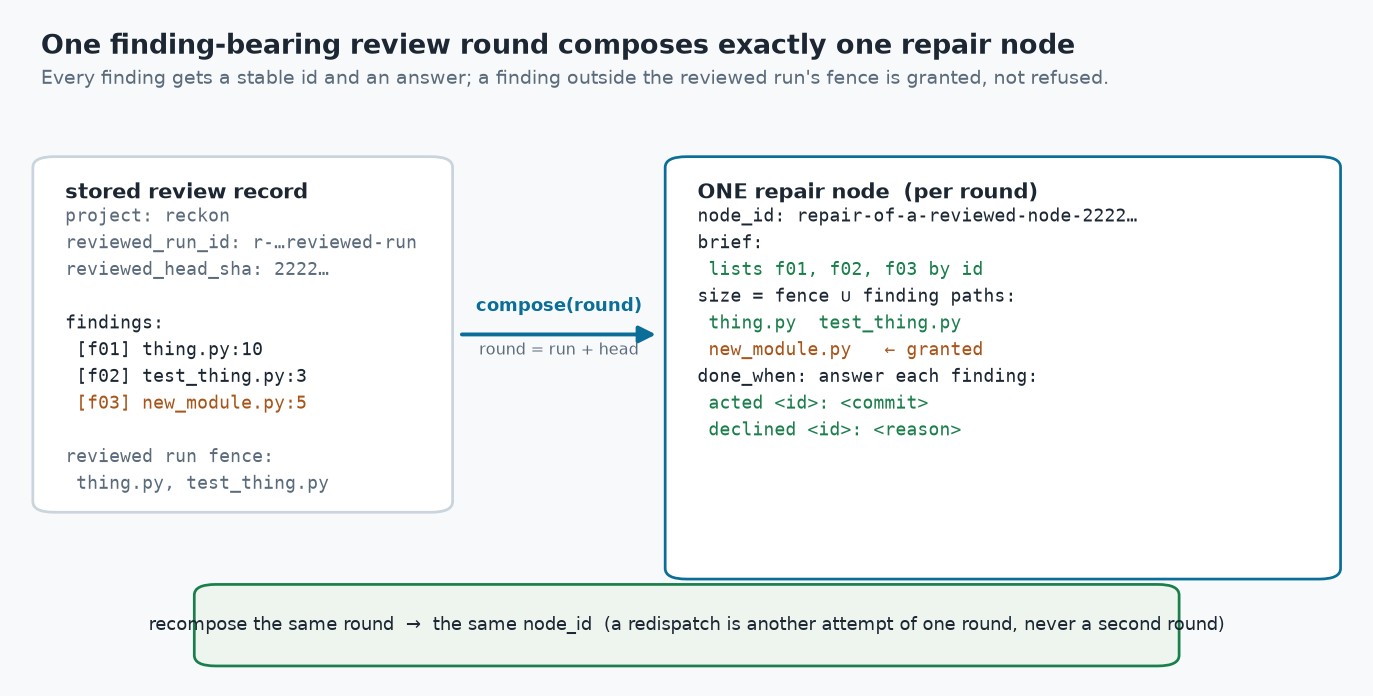
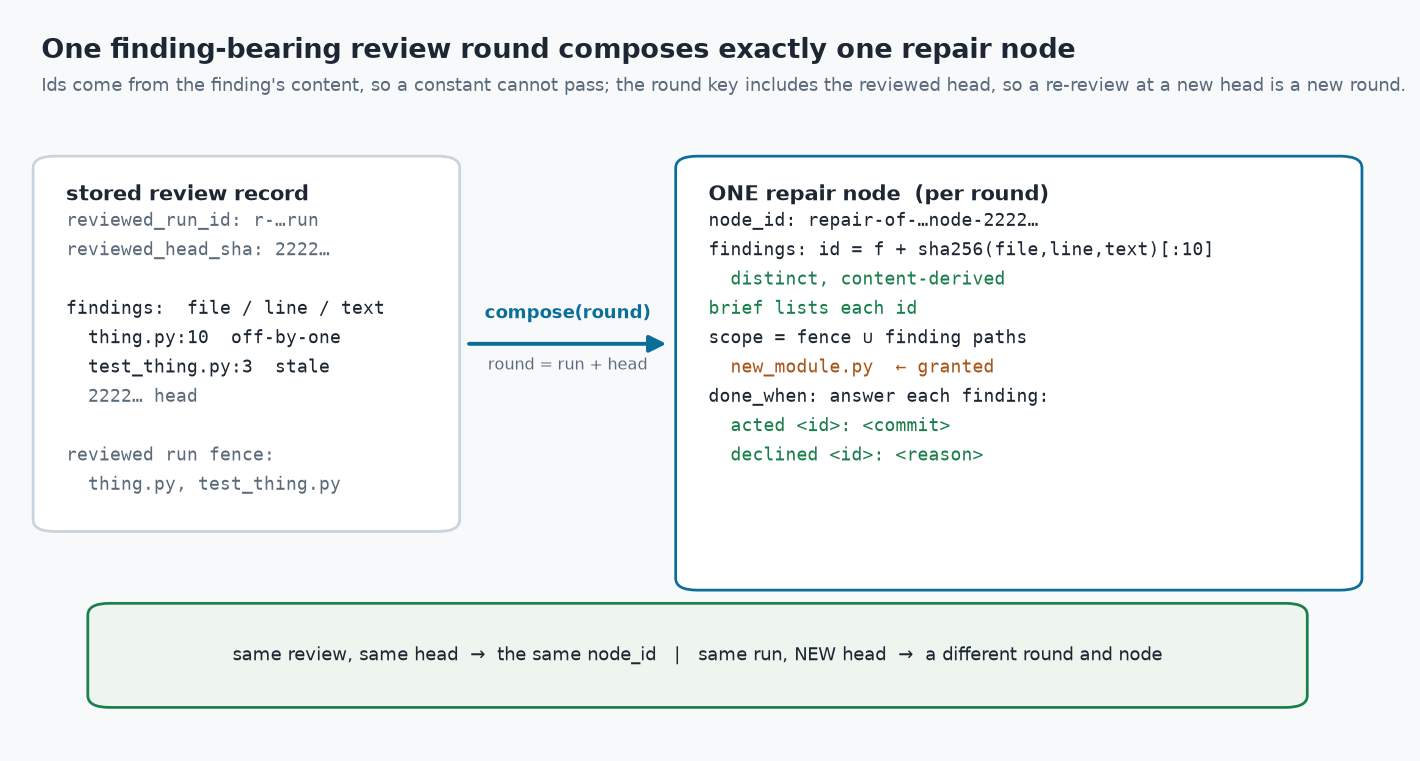
docs(evidence): record the repair round's content-derived ids and head arm
The repair round changed how a finding is identified and how a round is
keyed, so the landed record no longer matched the code beside the
figure. The finding id is now derived from the finding's own file, line
and text rather than its position in the frozen record, and the response
words are imported from plan review's shared vocabulary rather than
declared as a private copy.

Update the fragment's description of the id rule, the shared vocabulary
and the round-identity discriminator; add the repair-round head arm to
the gate table; and record the second negative control, in which a
constant finding_id reddens the three id-bearing cases in a scratch copy
of the tree. Regenerate the figure to show the content-derived ids and
the same-run/new-head discriminator.

Changed region(s): [[0.0306, 0.181, 0.9789, 0.9655], [0.0306, 0.0302, 1.0, 0.1207]]

diff --git a/docs/evidence/fragments/a-review-is-sized-to-its-risk/review-findings-compose-one-repair.html b/docs/evidence/fragments/a-review-is-sized-to-its-risk/review-findings-compose-one-repair.html
@@ -10,16 +10,21 @@
       </p>
       <p>
         <code>reckon/crew/repair.py</code> turns a stored review record into that
-        single node. Each finding is given a stable id minted from the record's own
-        frozen order (<code>f01</code>, <code>f02</code>, …). The node's brief lists
-        every finding under its id, and its write scope is the union of the reviewed
-        run's own fence and the paths the findings name — so a finding outside the
-        reviewed run's fence is <em>granted</em> that path rather than refused the
-        file its brief asks it to edit. The composed <code>done_when</code> obliges
-        the repair to answer every finding by id: <code>acted &lt;id&gt;:&lt;commit&gt;</code>
-        for one it fixes, <code>declined &lt;id&gt;: &lt;reason&gt;</code> for one it
-        does not. The response vocabulary is shared with plan review (stable id,
-        acted-or-declined with a reason) rather than reinvented.
+        single node. Each finding is given a stable id derived from its own
+        content — the fixed prefix <code>f</code> plus ten hex digits of
+        <code>sha256(file, line, text)</code> — so the id is a function of the
+        finding rather than of its position: two findings differing only in text
+        get different ids, and a scheme returning one constant for every finding
+        cannot pass. The node's brief lists every finding under its id, and its
+        write scope is the union of the reviewed run's own fence and the paths the
+        findings name — so a finding outside the reviewed run's fence is
+        <em>granted</em> that path rather than refused the file its brief asks it
+        to edit. The composed <code>done_when</code> obliges the repair to answer
+        every finding by id: <code>acted &lt;id&gt;:&lt;commit&gt;</code> for one it
+        fixes, <code>declined &lt;id&gt;: &lt;reason&gt;</code> for one it does not.
+        The response words are imported from plan review's
+        <code>RESPONSE_ACTIONS</code>, not declared here, so the brief teaches the
+        very words a response record validates against.
       </p>
       <p>
         Round identity is the pair the review stands for — the run it reviewed and
@@ -28,15 +33,18 @@
         redispatch of a failed attempt is another attempt of one round, not a second
         round. A run reviewed again at a later head composes a different id, so a
         later round is not mistaken for a retry. The module imports the existing
-        review parser and store and edits neither.
+        review parser, plan-review vocabulary and review store and edits none of
+        them.
       </p>
       <figure>
         <img src="/reckon/figures/a-review-is-sized-to-its-risk/review-findings-compose-one-repair/composition.png"
-             alt="A stored review record with three findings composes through round = run + head into one repair node whose brief lists f01, f02, f03 and whose write scope is the fence union the finding paths, granting the out-of-fence finding; recomposing the same round returns the same node id.">
+             alt="A stored review record with three findings composes through round = run + head into one repair node whose brief lists content-derived ids f<hex> and whose write scope is the fence union the finding paths, granting the out-of-fence finding; recomposing the same round returns the same node, and the same run at a new head composes a different round and node.">
         <figcaption>
           The third finding (<code>new_module.py</code>) sits outside the reviewed
           run's fence and is unioned into the repair's write scope. Recomposing the
-          same round returns the same node, so a redispatch is one round.
+          same round returns the same node, so a redispatch is one round; the same
+          run at a new head composes a different round and node, so a later review
+          is not mistaken for a retry.
         </figcaption>
       </figure>
       <p>
@@ -46,7 +54,13 @@
         reviewed run's fence, and asserts: one repair node composed; its brief
         naming all three findings by id; its write scope containing the out-of-fence
         path; and a second composition of the same round returning the same node.
-        It passes at exit 0:
+        The finding ids are asserted against an expectation the test derives itself
+        from each finding's file, line and text, so the module cannot pass by
+        returning a constant; a case where two findings differ only in text must
+        return different ids; and the round test pairs the same run at two heads, so
+        a round key that ignored the head would fail. A vocabulary case asserts the
+        brief teaches exactly <code>plan_review.RESPONSE_ACTIONS</code>, reddening
+        if the two ever diverge. It passes at exit 0:
       </p>
       <table>
         <caption>Arms recorded in the run manifest</caption>
@@ -55,7 +69,8 @@
         </thead>
         <tbody>
           <tr><td>base (base revision + the new test file)</td><td><code>ba1a26e4</code></td><td>2</td><td>1 (collection error: <code>reckon.crew.repair</code> absent)</td></tr>
-          <tr><td>head (committed head)</td><td><code>6ea239a9</code></td><td>0</td><td>0</td></tr>
+          <tr><td>head (first round)</td><td><code>6ea239a9</code></td><td>0</td><td>0</td></tr>
+          <tr><td>head (repair round)</td><td><code>3122cc56</code></td><td>0</td><td>0</td></tr>
         </tbody>
       </table>
       <p>
@@ -67,6 +82,19 @@
         log <code>negative-control.log</code> under the run directory carries the
         declared mutation verbatim on its first line, exits 1, and names
         <code>test_a_findings_review_composes_one_repair_node</code> FAILED.
+      </p>
+      <p>
+        <strong>Second negative control.</strong> A companion mutation makes
+        <code>finding_id</code> return one constant for every finding. It is applied
+        in a scratch copy of the tree, never the committed file, with the tests
+        directory copied alongside so the mutation reaches the same test. Three
+        cases red under it —
+        <code>test_a_findings_review_composes_one_repair_node</code>,
+        <code>test_finding_ids_are_distinct_and_content_derived</code> and
+        <code>test_findings_differing_only_in_text_get_different_ids</code> — which
+        is the second finding of the review round this node repairs. That log is
+        <code>negative-control-constant-id.log</code> under the run directory,
+        exiting 1.
       </p>
       <p>
         <strong>Scope.</strong> Wiring the composer into the review reflex is a
